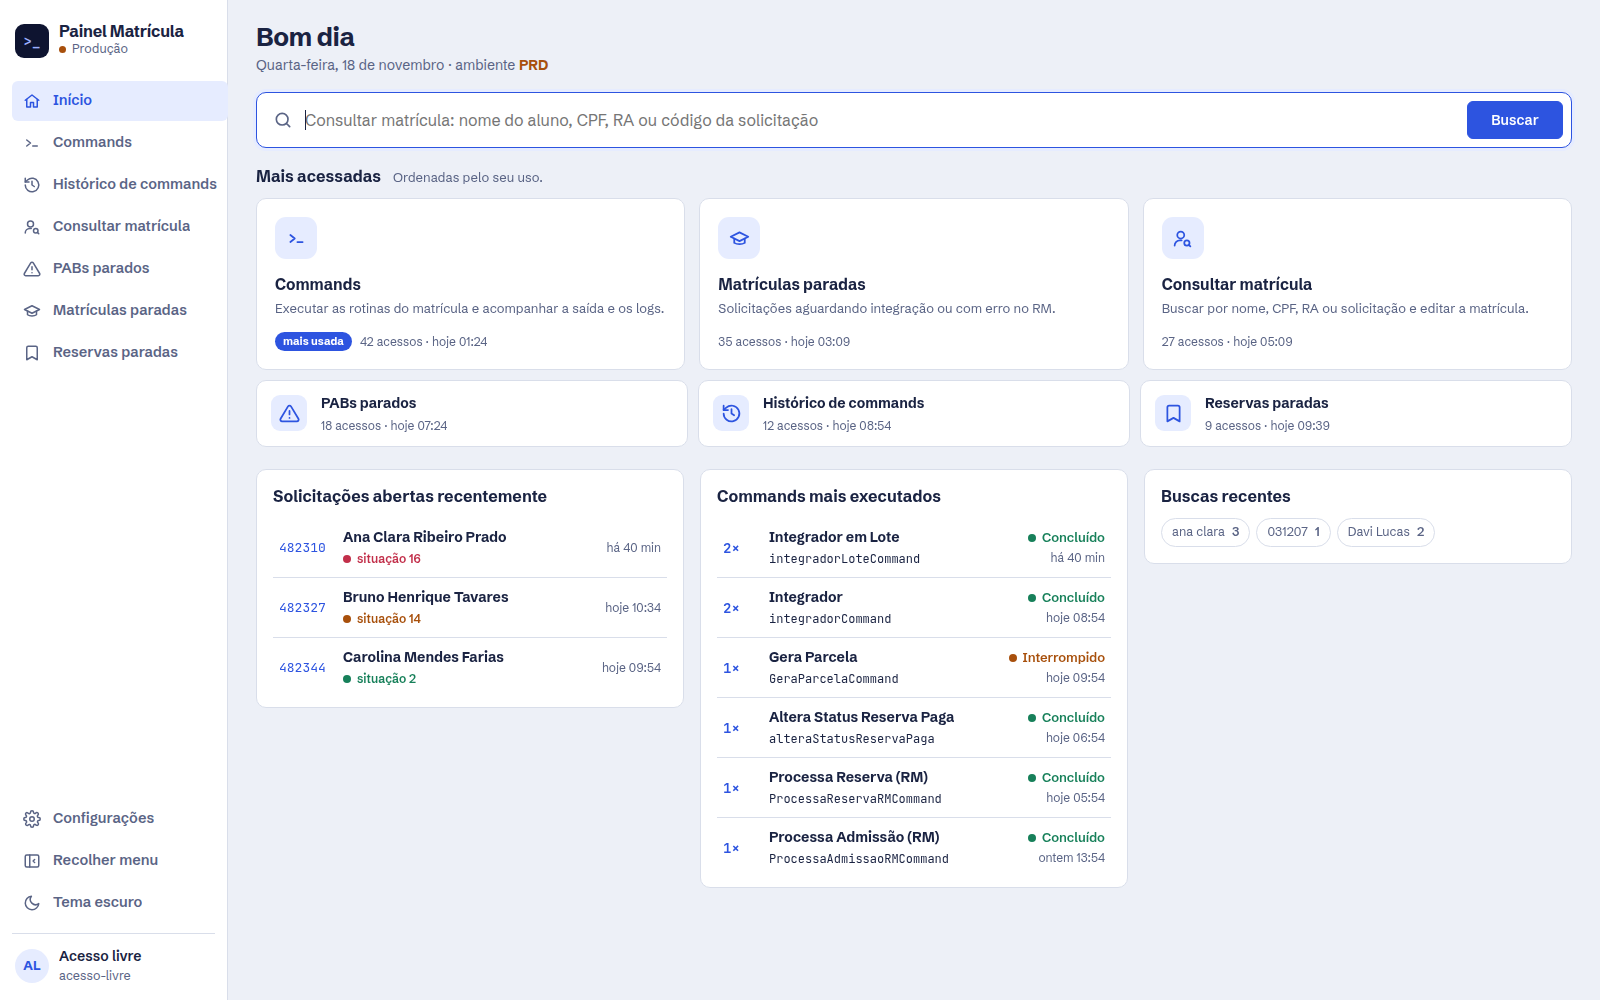
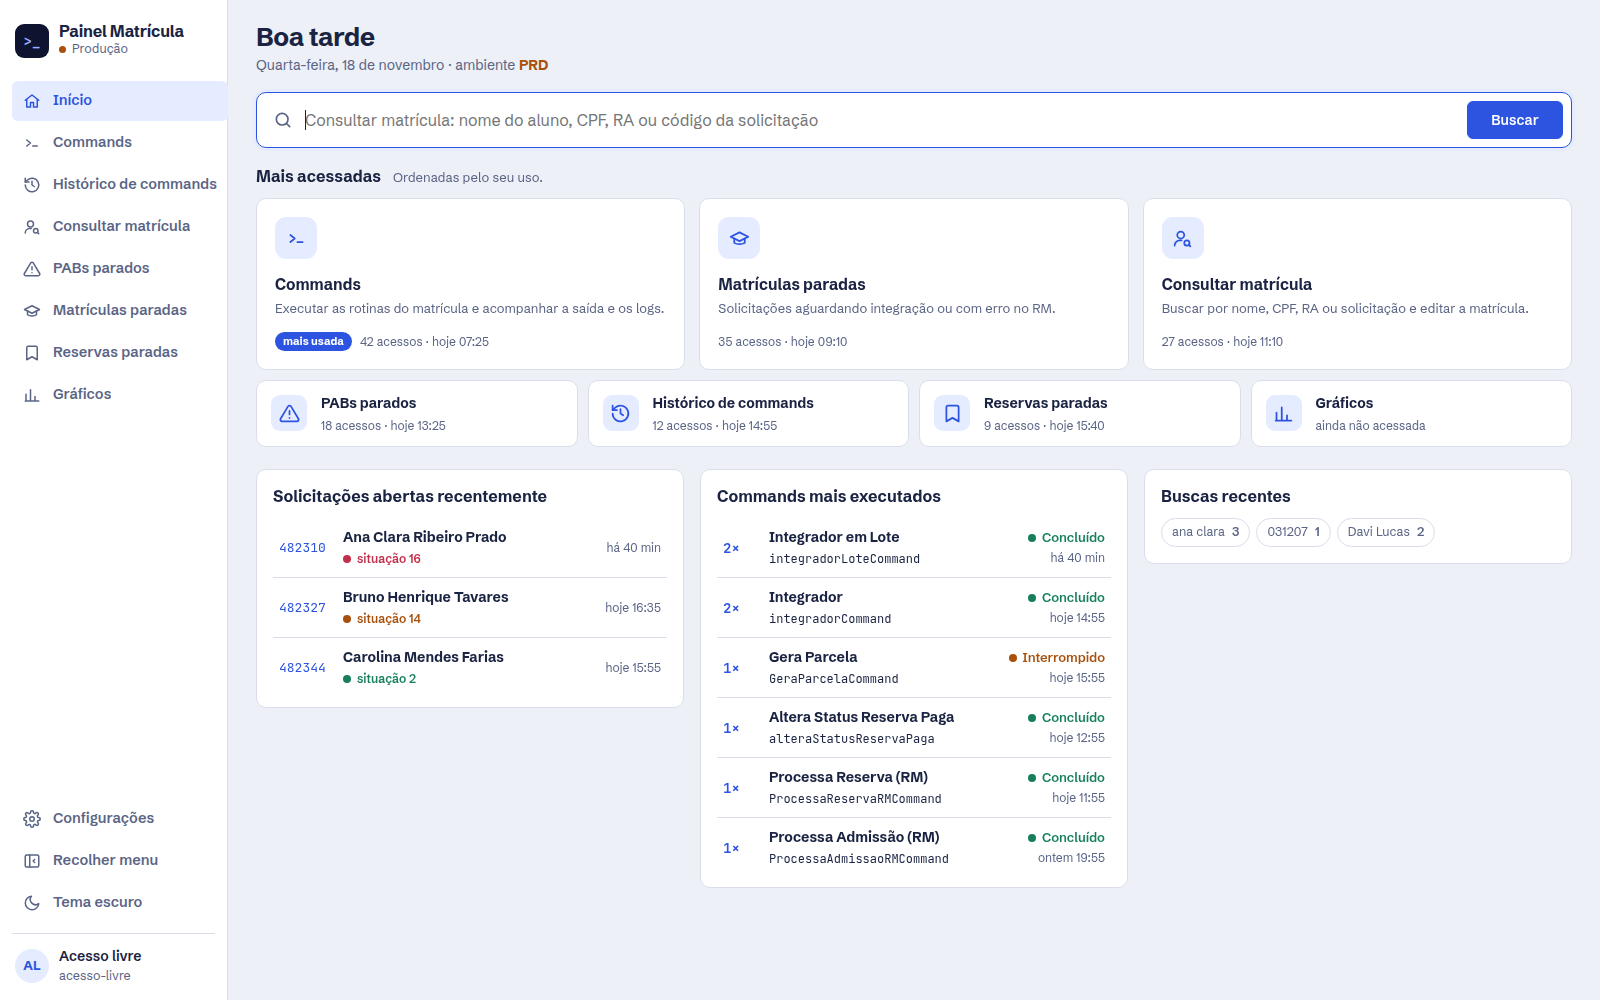
feat: Gráficos na demonstração e capturas atualizadas

diff --git a/tools/demo/fakes.php b/tools/demo/fakes.php
@@ -111,6 +111,48 @@ class BancoFalso extends BancoDoMatricula
         return ['integrar' => 0, 'pagamento' => 0];
     }
 
+    public function solicitacoesDoLote(?int $ano, ?int $processo): array
+    {
+        return [482310 => 16, 482327 => 14, 482344 => 16];
+    }
+
+    /** Situação "atual" determinística pelo código: ~80% resolvidos, o resto parado ou com erro. */
+    public function situacaoAtual(string $tipo, array $codigos): array
+    {
+        $erros = array_values(array_filter(Dados::ERROS));
+        $atuais = [];
+        foreach ($codigos as $codigo) {
+            $sorte = crc32($tipo.$codigo) % 100;
+            $resultado = $sorte < 80 ? 'resolvido' : ($sorte < 91 ? 'parado' : 'voltou');
+            $erro = $erros[crc32((string) $codigo) % count($erros)];
+            switch ($tipo) {
+                case 'matriculas':
+                    $atuais[$codigo] = ['situacao' => ['resolvido' => 2, 'parado' => 14, 'voltou' => 16][$resultado], 'erro' => $resultado === 'voltou' ? $erro : null];
+                    break;
+                case 'pabs':
+                    $atuais[$codigo] = ['situacao' => ['resolvido' => 4, 'parado' => 3, 'voltou' => 11][$resultado], 'sem_boleto_contrato' => $resultado === 'parado'];
+                    break;
+                default:
+                    $atuais[$codigo] = ['situacao' => ['resolvido' => 8, 'parado' => 6, 'voltou' => 7][$resultado], 'erro' => $resultado === 'voltou' ? $erro : null, 'tem_boleto' => $resultado === 'resolvido'];
+            }
+        }
+
+        return $atuais;
+    }
+
+    /** Repete a última contagem do seed, para a foto de hoje continuar a linha. */
+    public function contagemDeParadas(int $anoMinimo): array
+    {
+        $fotos = json_decode((string) @file_get_contents(dirname(__FILE__).'/storage/app/paradas/PRD.json'), true) ?: [];
+        $ultima = $fotos ? end($fotos) : [];
+
+        return [
+            'matriculas' => (int) ($ultima['matriculas'] ?? 30),
+            'pabs' => (int) ($ultima['pabs'] ?? 12),
+            'reservas' => (int) ($ultima['reservas'] ?? 6),
+        ];
+    }
+
     public function prepararReintegracao(int $codigoSolicitacao, string $ipVpn): array
     {
         throw new RuntimeException('Demonstração: nada é alterado.');

diff --git a/tools/demo/seed.php b/tools/demo/seed.php
@@ -54,4 +54,44 @@ foreach ([['ana clara', 3], ['031207', 1], ['Davi Lucas', 2]] as $i => [$t, $r])
 }
 @mkdir(__DIR__.'/storage/app/acessos', 0775, true);
 file_put_contents(__DIR__.'/storage/app/acessos/'.sha1('acesso-livre').'.json', json_encode($dados, JSON_PRETTY_PRINT | JSON_UNESCAPED_UNICODE));
+// Reprocessamentos dos últimos 90 dias (tela Gráficos). O resultado de cada
+// um sai de Demo\BancoFalso::situacaoAtual, determinístico pelo código.
+mt_srand(42);
+$linhas = '';
+$codigoBase = ['matriculas' => 482000, 'pabs' => 65000, 'reservas' => 23000];
+$porDia = ['matriculas' => 3.2, 'pabs' => 1.1, 'reservas' => 0.7];
+for ($dia = 90; $dia >= 0; $dia--) {
+    foreach ($porDia as $tipo => $media) {
+        $quantos = (int) round($media * (0.3 + mt_rand(0, 140) / 100) * (date('N', strtotime("-{$dia} days")) >= 6 ? 0.3 : 1));
+        for ($i = 0; $i < $quantos; $i++) {
+            $linhas .= json_encode([
+                'quando' => date(DATE_ATOM, strtotime("-{$dia} days 09:00") + mt_rand(0, 8 * 3600)),
+                'tipo' => $tipo,
+                'codigo' => $codigoBase[$tipo] + mt_rand(0, 9999),
+                'situacao_antes' => ['matriculas' => 16, 'pabs' => 11, 'reservas' => 7][$tipo],
+                'execucao' => null,
+                'comando' => 'demo',
+                'origem' => 'linha',
+            ])."\n";
+        }
+    }
+}
+@mkdir(__DIR__.'/storage/app/reprocessamentos', 0775, true);
+file_put_contents(__DIR__.'/storage/app/reprocessamentos/PRD.jsonl', $linhas);
+
+// Paradas em aberto por dia, com alguns dias sem contagem (painel fechado).
+$fotos = [];
+$nivel = ['matriculas' => 58, 'pabs' => 19, 'reservas' => 11];
+for ($dia = 90; $dia >= 1; $dia--) {
+    foreach ($nivel as $tipo => $valor) {
+        $nivel[$tipo] = max(2, $valor + mt_rand(-30, 26) / 10 * ($tipo === 'matriculas' ? 1 : 0.4));
+    }
+    if (date('N', strtotime("-{$dia} days")) >= 6) {
+        continue;
+    }
+    $fotos[date('Y-m-d', strtotime("-{$dia} days"))] = array_map('intval', array_map('round', $nivel)) + ['em' => date(DATE_ATOM, strtotime("-{$dia} days 10:00"))];
+}
+@mkdir(__DIR__.'/storage/app/paradas', 0775, true);
+file_put_contents(__DIR__.'/storage/app/paradas/PRD.json', json_encode($fotos, JSON_PRETTY_PRINT));
+
 echo "ok\n";
